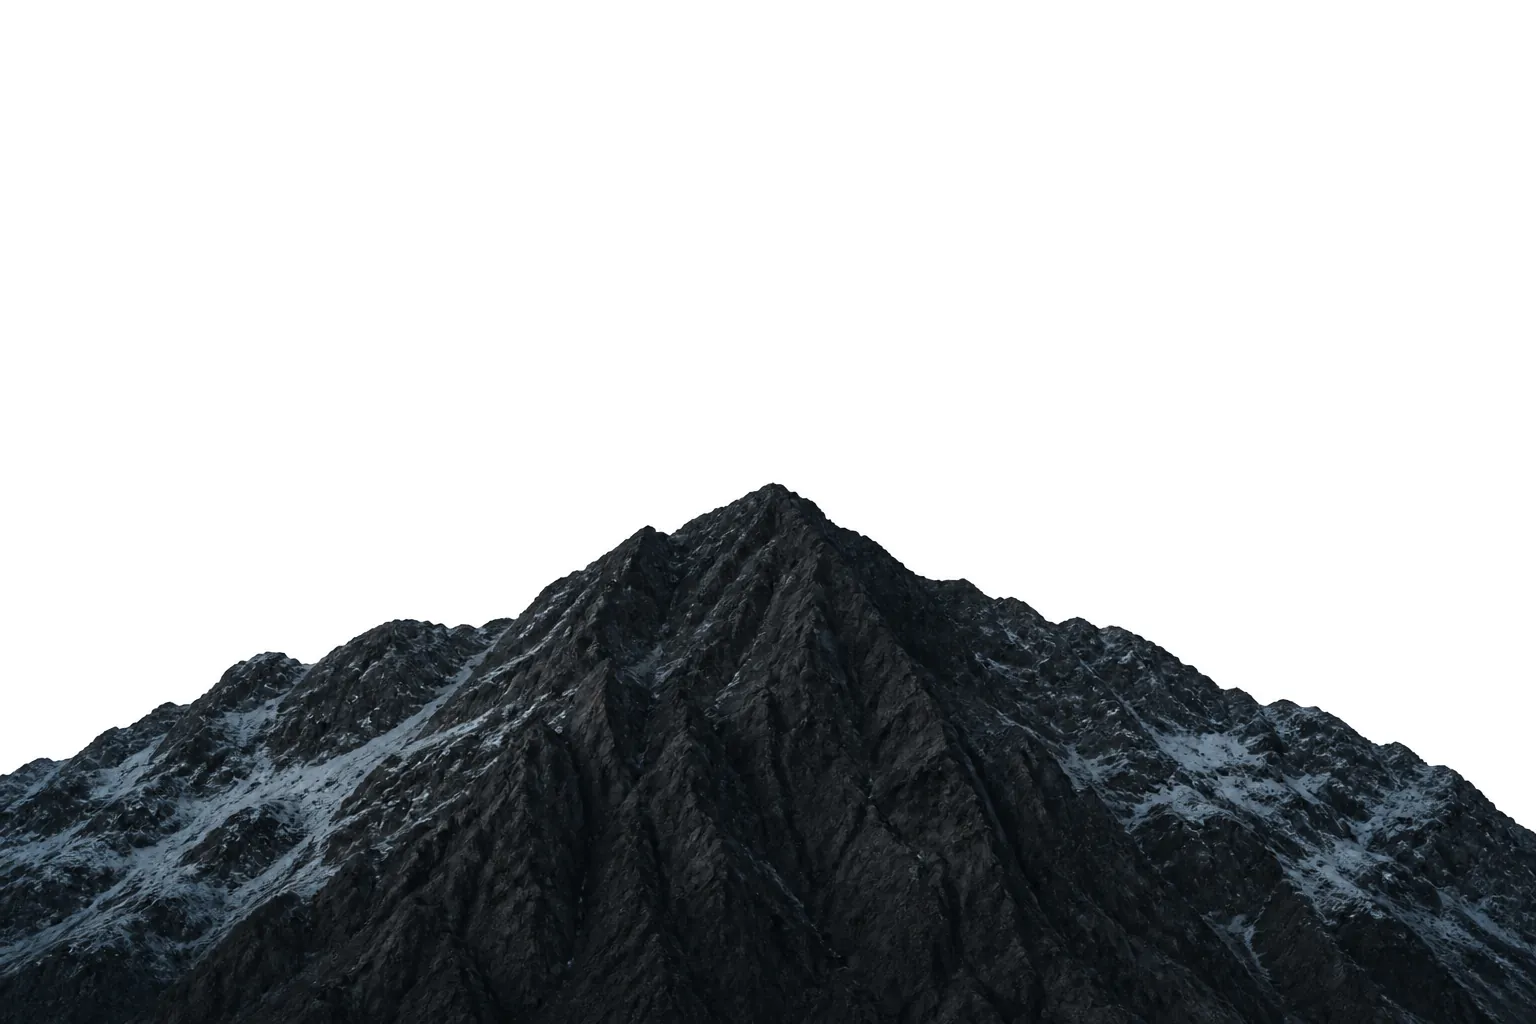
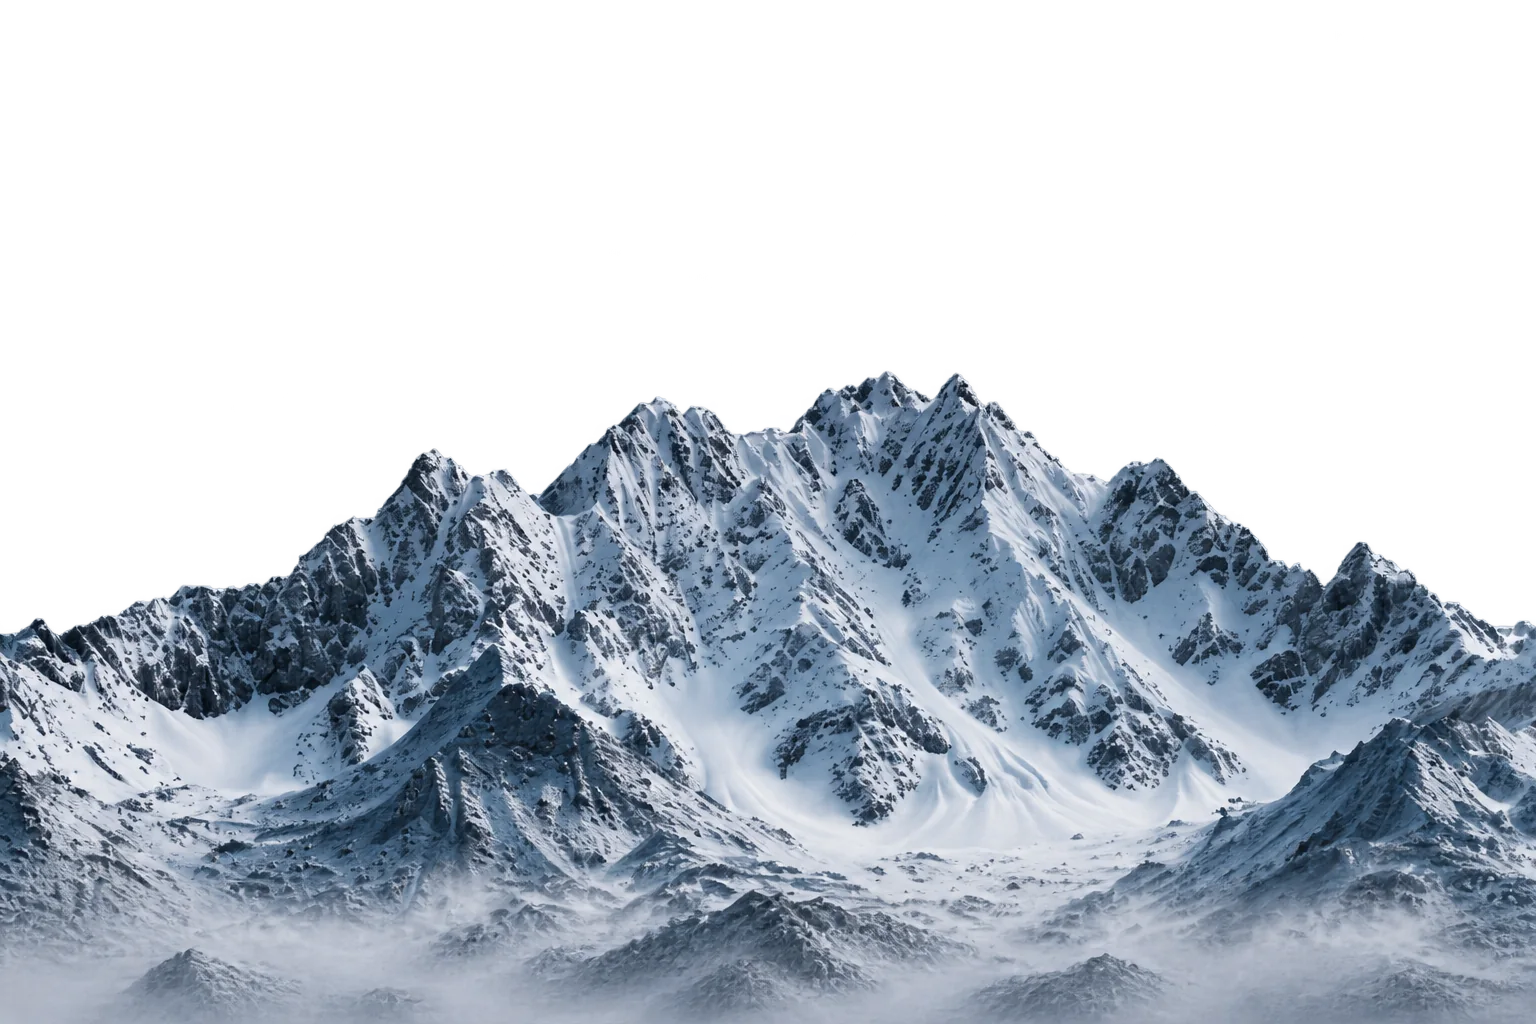
feat: rebuild the Projects ridge light, with a real cutout front plate
Three corrections from the owner, all of which I had got wrong:

1. Too dark. He wanted his reference's light, high-key, blue-grey look with visible snow and rock detail; I had graded the back plate to a frame mean of 0.130. Both plates are now rolled with --ref against his own reference files and sit at 0.479.

2. The front peak was see-through. multiply blends with .plate--copy, so bone type times dark rock is dark type -- still legible through the mountain. The front slot is now a real alpha cutout: 49% fully transparent, 50.5% fully opaque, 0.45% partial edge. The Tier-3 ban was written against fine foliage, the worst case for matting; a ridge is the best case. Because it occludes by alpha rather than by darkness, it no longer has to be dark, which is what made 'light' and 'hides the title' compatible.

3. The title sat on snow. The back plate now carries a large dark rock wall across the centre with the snow pushed out to the flanks: band p95 0.534 -> 0.223, contrast 1.69:1 -> 3.62:1.

Also removes the panel's height:53%/top:47% band trim from the front slot. That trim was the actual cause of the 'big gap under it' he reported originally -- it made the plate a floating 53% strip whose hard top and bottom edges swept through the frame as it travelled.

diff --git a/src/styles/projects.css b/src/styles/projects.css
@@ -17,17 +17,19 @@
    Must target .plate, not .frame: .plate sets will-change: transform, which
    creates a stacking context, and a blend on a descendant only composites
    against that plate's own children. */
-#ridge .plate--front { mix-blend-mode: multiply; }
+/* NOT multiply. The owner needs the title to vanish completely behind this peak,
+   and multiply blends with .plate--copy along with everything else beneath it --
+   bone type times dark rock is dark type, still legible through the mountain. This
+   slot is a real alpha cutout instead: transparent sky, fully opaque rock. The
+   Tier-3 ban in the spec was written against fine foliage, thousands of thin
+   semi-transparent edges and the worst case for matting; a ridge is a hard edge.
+   Measured 49% fully transparent, 50.5% fully opaque, 0.45% partial. */
 
 /* .frame paints var(--bg-deep) so a missing image reads as a labelled dark
-   box. Under multiply an opaque dark ground would crush the whole hero to
-   black. */
+   box. Here that opaque ground would sit in front of the ridge behind it and
+   hide the whole back plate, so the frame stays transparent and the cutout's
+   own alpha does the occluding. */
 #ridge .plate--front .frame { background: transparent; }
-
-/* While the slot is empty the dashed placeholder must stay legible, so the
-   blend switches off rather than multiplying a dashed border into the ridge.
-   Restores itself the moment a real file lands. */
-#ridge .plate--front:has(.frame.is-missing) { mix-blend-mode: normal; }
 
 /* ── filters ── */
 .filters { display: flex; flex-wrap: wrap; align-items: center; gap: 10px; margin-bottom: clamp(24px, 3vw, 44px); }

diff --git a/src/styles/layout.generated.css b/src/styles/layout.generated.css
@@ -3,56 +3,37 @@
    structure. Hand edits survive until the next Save, which rewrites the file
    from the panel's state. */
 
-.frame[data-label="Case study hero — cacheit-street"] img {
-  object-position: 50% 50%;
-}
-
-.frame[data-label="Front plate — fronds-near"] img {
-  object-position: 50% 50%;
-  --img-zoom: 1.62;
-}
-
 .frame[data-label="Hero L1 — jungle-far"] img {
-  object-position: 54.03% 55.56%;
-  --img-zoom: 1.06;
-}
-
-.frame[data-label="Hero L3 — jungle-mid"] img {
   object-position: 50% 50%;
 }
 
 .frame[data-label="Hero L5 — jungle-near"] img {
-  object-position: 4.32% 30.35%;
+  object-position: 51.59% 52.29%;
 }
 
-.frame[data-label="Life — life-decks"] img {
+.frame[data-label="Music L3 — cave-near"] img {
   object-position: 50% 50%;
-  --img-zoom: 1.3;
 }
 
-.frame[data-label="Life — life-rack"] img {
-  object-position: 56.72% 58.32%;
+.frame[data-label="Music L3 — cave-near"] {
+  height: 25%;
+  top: 37.5%;
+  background: transparent;
 }
 
 .frame[data-label="Projects L1 — ridge-far"] img {
   object-position: 50% 50%;
-  --img-zoom: 1.87;
 }
 
 .frame[data-label="Projects L3 — ridge-near"] img {
-  object-position: 63.46% 32.88%;
-}
-
-.frame[data-label="Thesis front — roots-overlay"] img {
   object-position: 50% 50%;
 }
 
-.frame[data-label="Thesis — server-moss"] img {
+.frame[data-label="Workshop L1 — cottage-far"] img {
   object-position: 50% 50%;
 }
 
-:root [data-edit="hero.intro"] {
-  font-family: var(--font-body);
-  font-size: var(--step-lede);
-  color: var(--fg);
+.frame[data-label="Workshop L1 — cottage-far"] {
+  height: 95%;
+  top: 0%;
 }

diff --git a/docs/image-slots.md b/docs/image-slots.md
@@ -29,8 +29,8 @@ true alpha (avoid; halos on soft edges).
 
 | Slot | Role | Tier | Status | Spend | Notes |
 |---|---|---|---|---|---|
-| `ridge-far` | back, opaque | 1 opaque | explore (graded, awaiting final) | $0.009 | 1536x1024, roll 1 accepted first time. Graded gamma 1.60 / exposure 1.00, **colour shift zeroed** (`blue=0 green=0 red=0`) — grade.py's default pulls blue out and pushes green/yellow in, which is right for the jungle set and wrong for a slate room. Raw title-band p95 was 0.441 = 2.01:1 against bone, below the 3:1 floor for display type; graded it measures 0.270 = 3.08:1. The fog bank is what sat bright behind the type. |
-| `ridge-near` | front | 2 white→multiply | explore (kept) | $0.018 | 1536x1024, 2 rolls. White point pushed 252→255 (top corners measured 254.0 raw; an off-white ground leaves a grey wash over the whole hero). 74 KB. |
+| `ridge-far` | back, opaque | 1 opaque | explore (awaiting final) | $0.027 | 1536x1024, roll 1 accepted first time. Graded gamma 1.60 / exposure 1.00, **colour shift zeroed** (`blue=0 green=0 red=0`) — grade.py's default pulls blue out and pushes green/yellow in, which is right for the jungle set and wrong for a slate room. Raw title-band p95 was 0.441 = 2.01:1 against bone, below the 3:1 floor for display type; graded it measures 0.270 = 3.08:1. The fog bank is what sat bright behind the type. |
+| `ridge-near` | front | **3 real alpha** | explore (kept) | $0.027 | 1536x1024, 2 rolls. White point pushed 252→255 (top corners measured 254.0 raw; an off-white ground leaves a grey wash over the whole hero). 74 KB. |
 
 **Roll log:**
 
@@ -38,7 +38,11 @@ true alpha (avoid; halos on soft edges).
 |---|---|---|
 | `ridge-far` v1 | $0.009 | **accepted.** Layered recession, fog bank across the middle distance, serrated spruce treeline, no sun. |
 | `ridge-near` v1 | $0.009 | **rejected — composition, not quality.** Mountain filled the entire frame, so under multiply the title was occluded at scroll 0 and never had a clear moment. See the standing lesson below. |
-| `ridge-near` v2 | $0.009 | **accepted.** Summit at ~47% height with pure white above it; mass unbroken to the bottom edge across 100% of the width; central band bare dark rock, snow on the flanks only. |
+| `ridge-near` v2 | $0.009 | superseded — correct shape, but Tier 2 multiply left the title legible through the rock. |
+| `ridge-far` v3 | $0.009 | superseded — matched the owner's reference for palette, but its dark centre was not dark enough (title band p95 0.534 = 1.69:1). |
+| `ridge-near` v3 | $0.009 | **accepted.** `--ref` + `--transparent`. 49% fully transparent / 50.5% fully opaque / 0.45% partial edge. |
+| `ridge-far` v4 | $0.009 | **accepted.** `--ref`. Huge dark rock wall across the centre, snow on both flanks. Band p95 0.223 = 3.62:1 with the frame still light at 0.479. |
+| ~~`ridge-near` v2~~ | — | ~~**accepted.**~~ Summit at ~47% height with pure white above it; mass unbroken to the bottom edge across 100% of the width; central band bare dark rock, snow on the flanks only. |
 
 **Standing lesson from this sitting — `mix-blend-mode: multiply` darkens the TITLE too.**
 The front plate composites against everything beneath it in the stacking context,
